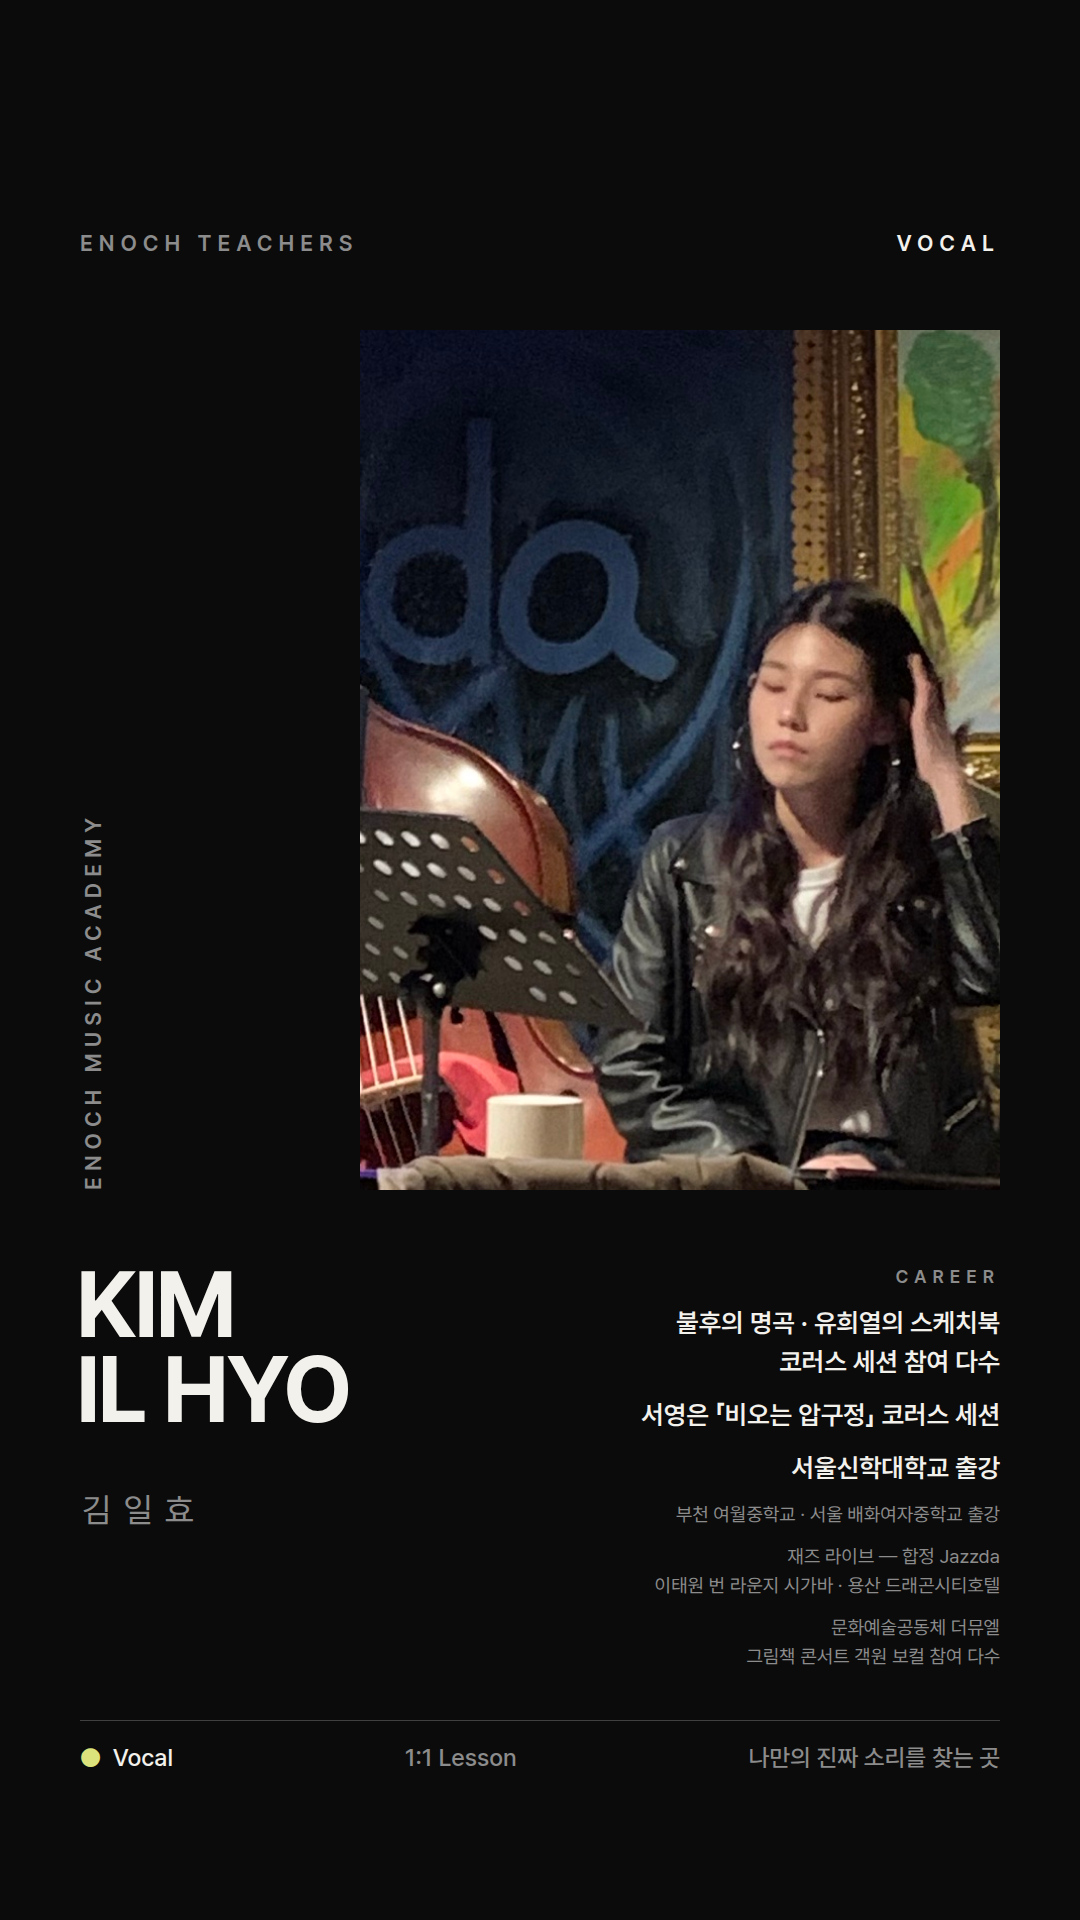
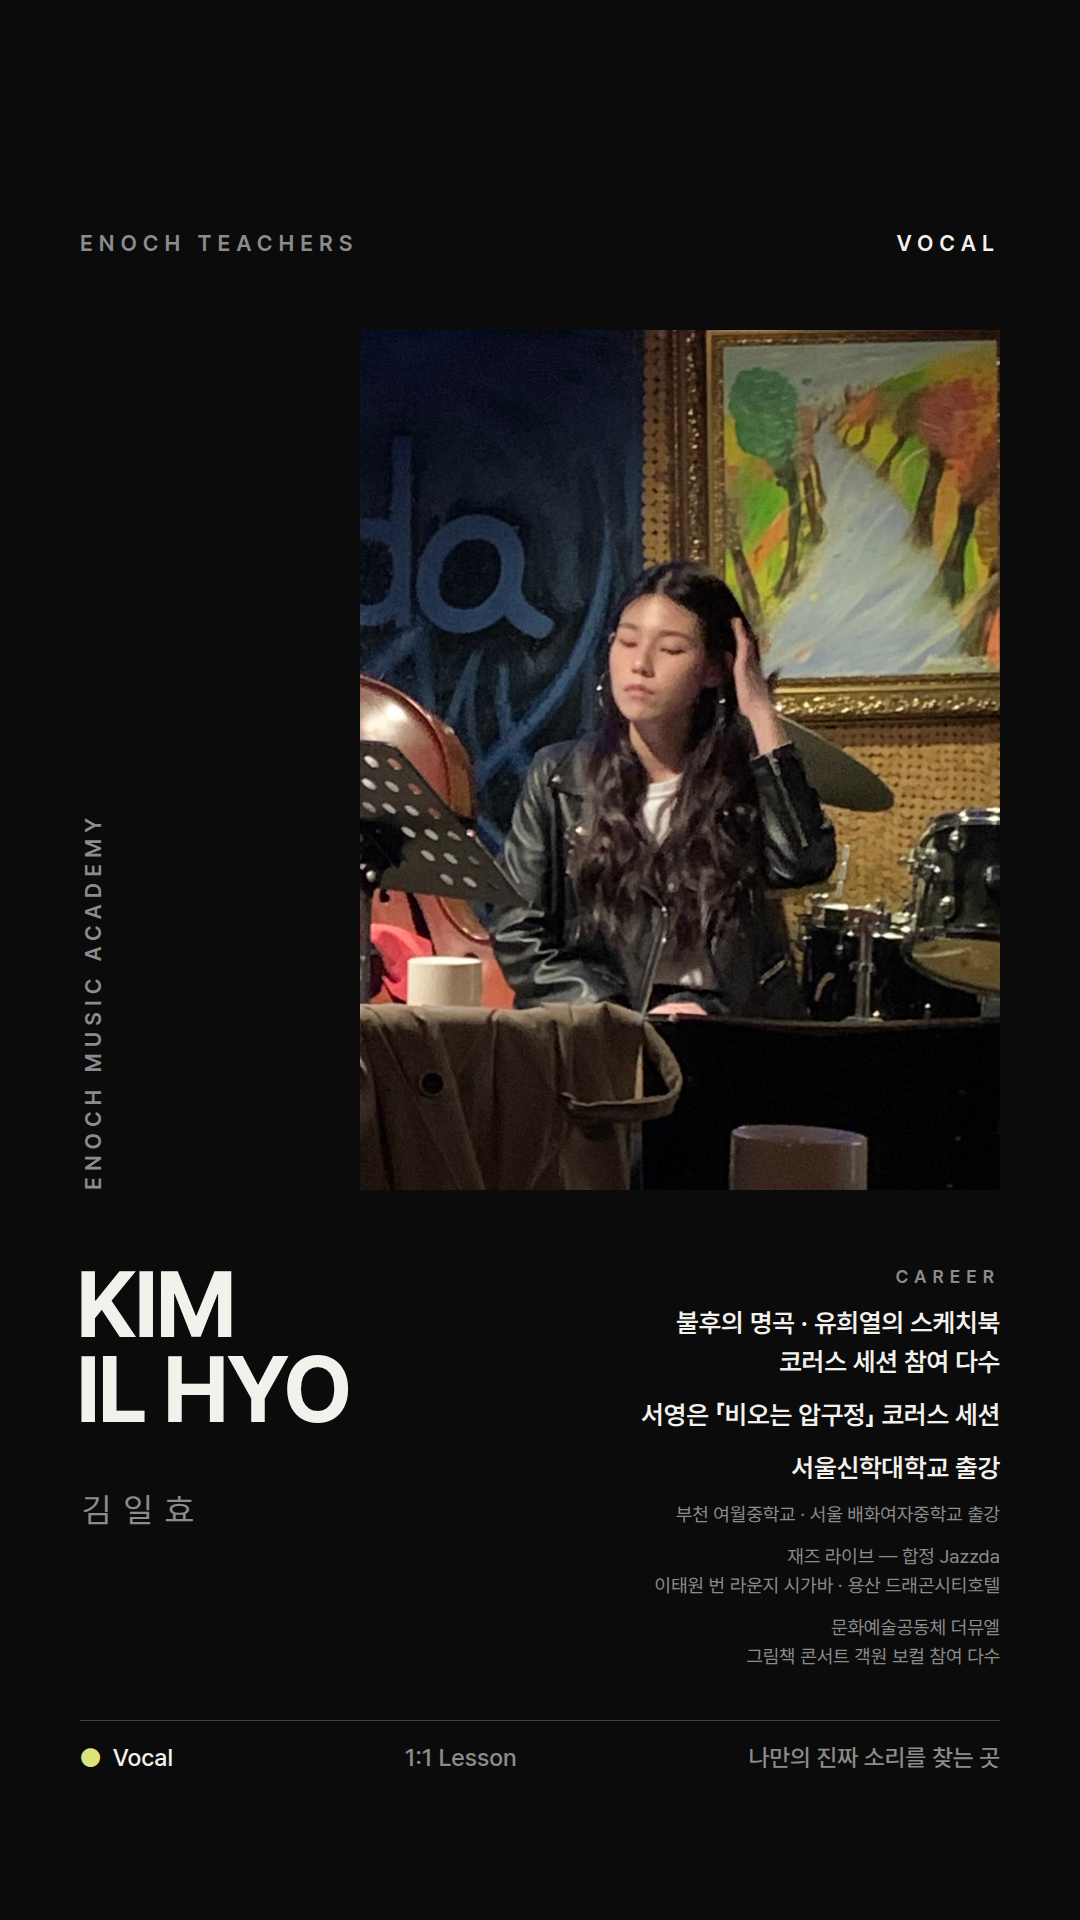
김일효: 사진 프레임에 드럼 포함
Claude-Session: https://claude.ai/code/session_01HGbZvgMeYrbU7mY8bwfjyb

Changed region(s): [[0.3361, 0.1562, 0.9472, 0.625]]

diff --git a/output/강사소개_김일효/feed_black.html b/output/강사소개_김일효/feed_black.html
@@ -47,7 +47,7 @@
 .bl .g{color:#8C8C8C}
 .bl .lab{font-size:20px;font-weight:600;letter-spacing:6px}
 #r1 .top{position:absolute;left:80px;right:80px;top:80px;display:flex;justify-content:space-between}
-#r1 .ph{position:absolute;right:80px;top:160px;width:620px;height:760px;background:#111 url(../../images/강사/김일효_01.jpg) -1213px -704px/2450px auto no-repeat}
+#r1 .ph{position:absolute;right:80px;top:160px;width:620px;height:760px;background:#111 url(../../images/강사/김일효_01.jpg) -1024px -520px/1950px auto no-repeat}
 #r1 .side{position:absolute;left:80px;top:160px;height:760px;width:220px;display:flex;flex-direction:column;justify-content:space-between}
 #r1 .side .n{font-size:64px;font-weight:300;line-height:1}
 #r1 .en{position:absolute;left:76px;top:960px;font-family:P,sans-serif;font-size:104px;font-weight:700;line-height:1;letter-spacing:-3px}

diff --git a/output/강사소개_김일효/story.html b/output/강사소개_김일효/story.html
@@ -11,7 +11,7 @@
 .lime{color:#DDE37C}
 /* 시안 R */
 #R .top{position:absolute;left:80px;right:80px;top:230px;display:flex;justify-content:space-between}
-#R .ph{position:absolute;right:80px;top:330px;width:640px;height:860px;background:#111 url(../../images/강사/김일효_01.jpg) no-repeat;background-size:2600px auto;background-position:-1287px -726px}
+#R .ph{position:absolute;right:80px;top:330px;width:640px;height:860px;background:#111 url(../../images/강사/김일효_01.jpg) no-repeat;background-size:2000px auto;background-position:-1040px -520px}
 #R .side{position:absolute;left:80px;top:330px;height:860px;width:220px;display:flex;flex-direction:column;justify-content:space-between}
 #R .side .n{font-size:64px;font-weight:300;line-height:1}
 #R .en{position:absolute;left:76px;top:1262px;font-size:92px;font-weight:700;line-height:.92;letter-spacing:-3px}
